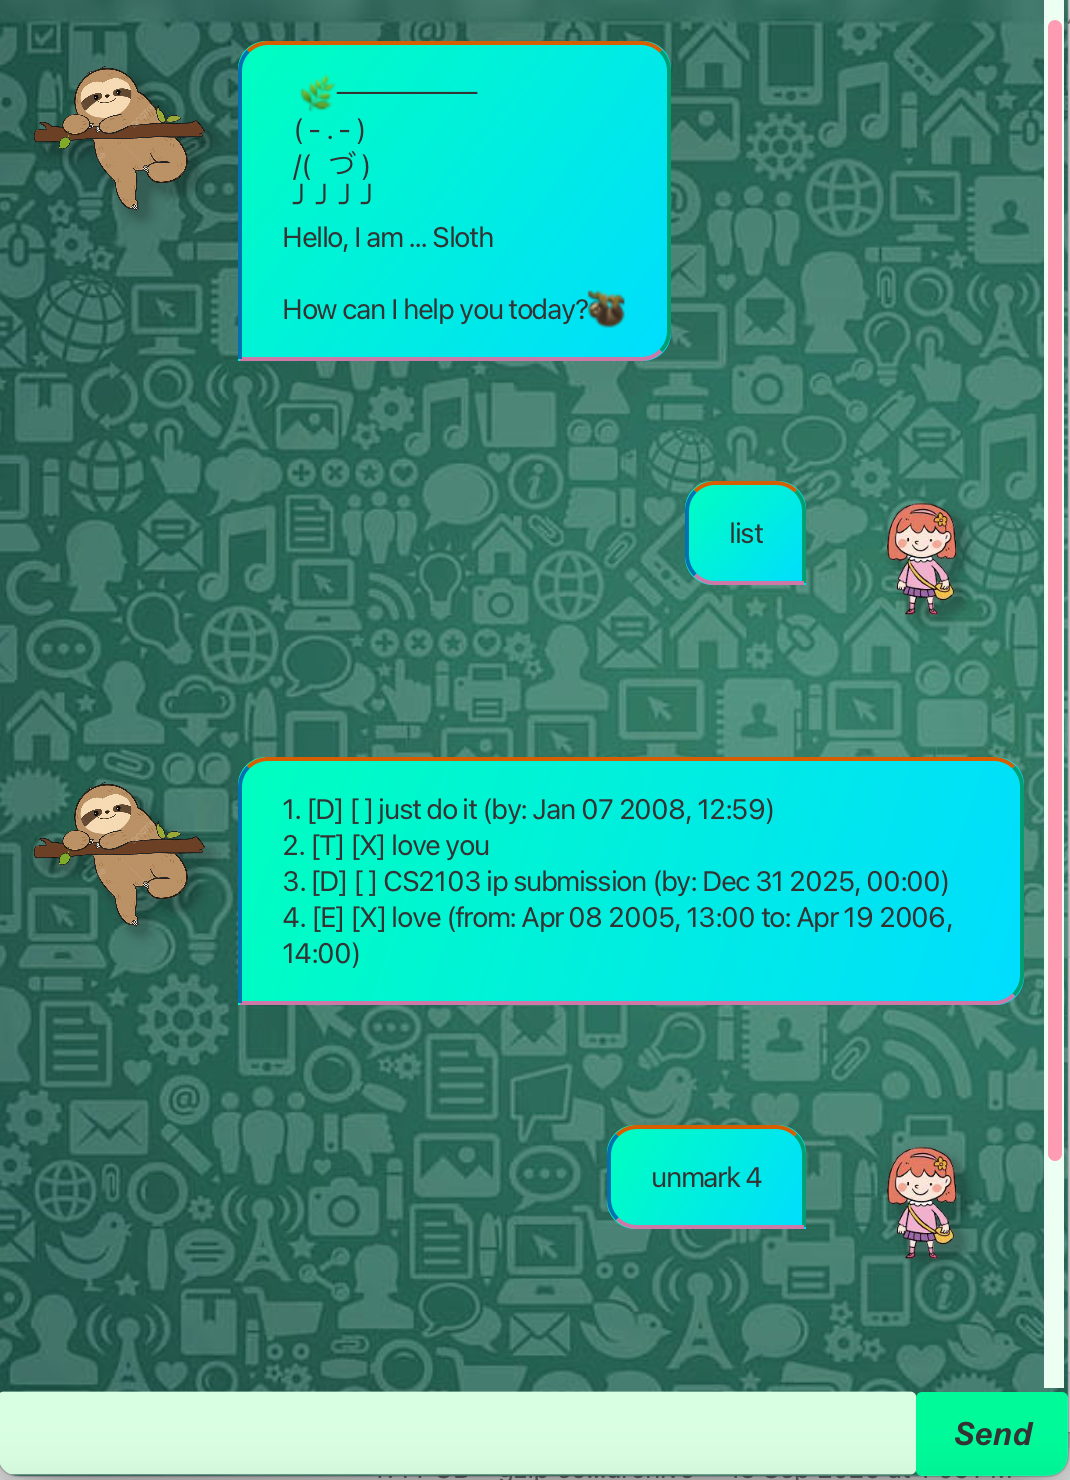
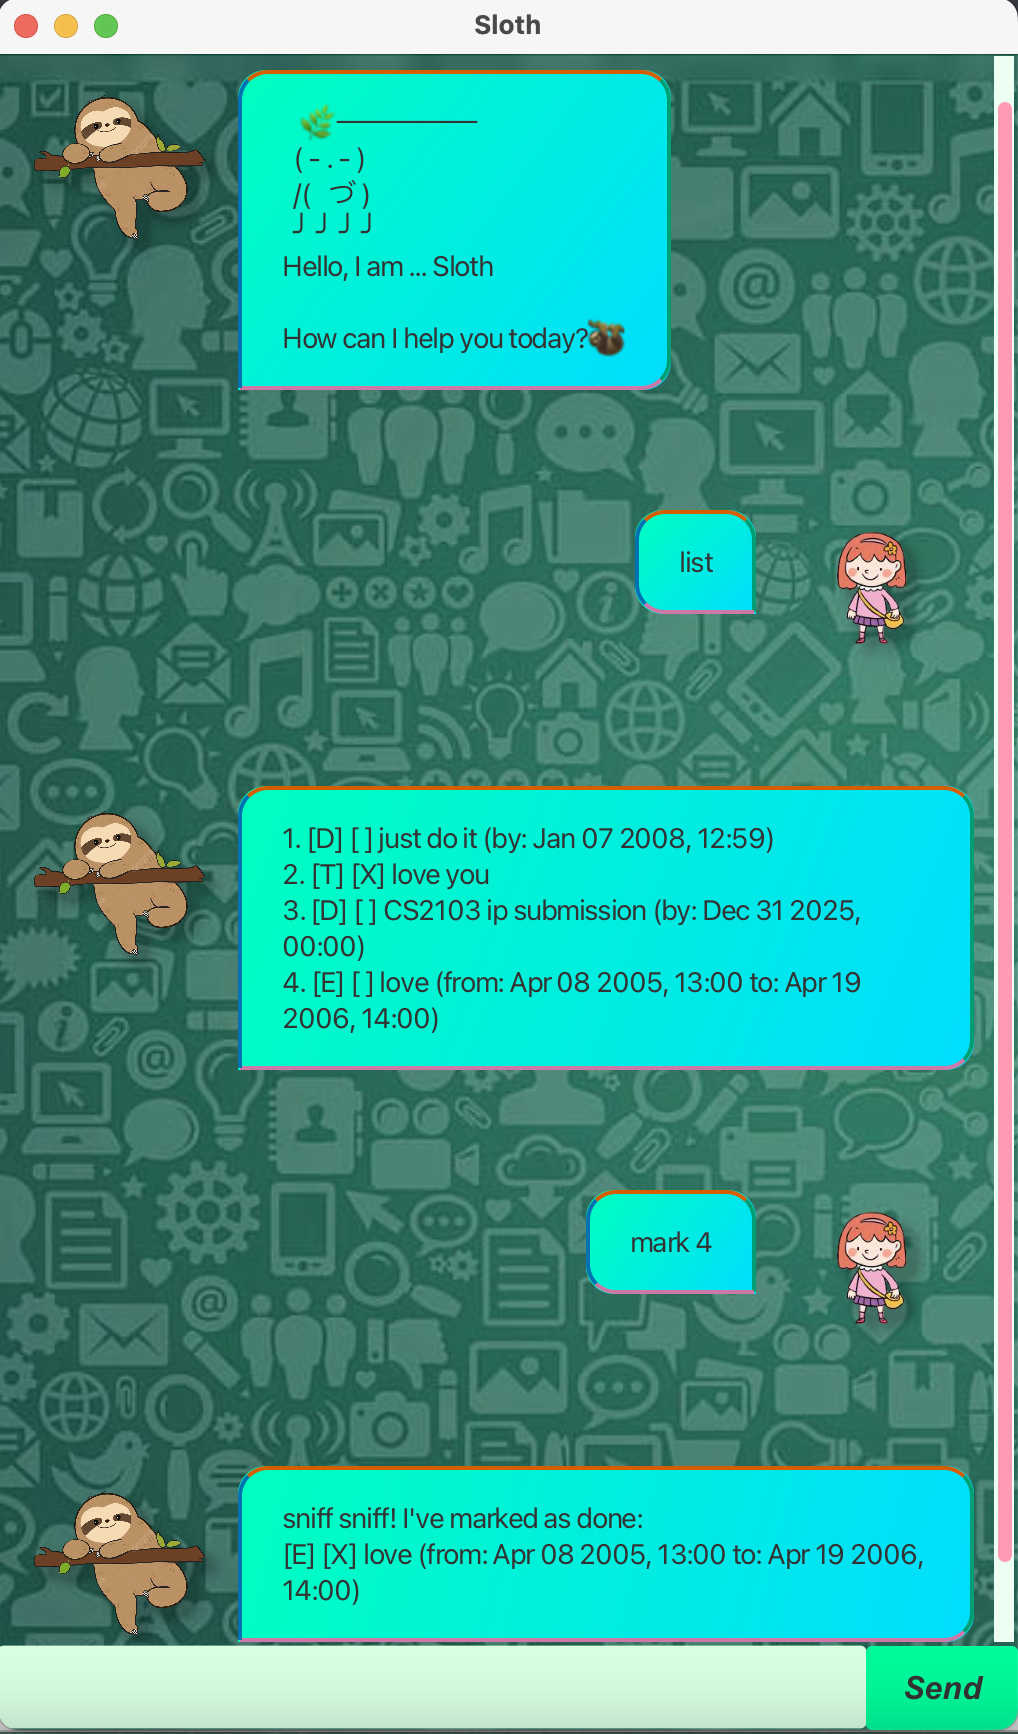
Add window title

diff --git a/src/main/java/gui/Main.java b/src/main/java/gui/Main.java
@@ -27,6 +27,7 @@ public class Main extends Application {
     @Override
     public void start(Stage stage) {
         try {
+            stage.setTitle("Sloth");
             FXMLLoader fxmlLoader = new FXMLLoader(Main.class.getResource("/view/MainWindow.fxml"));
             AnchorPane ap = fxmlLoader.load();
             Scene scene = new Scene(ap);
